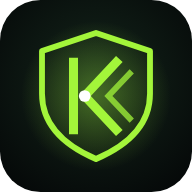
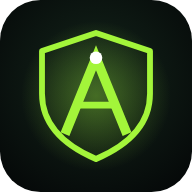
Infinite ammo drains the strip, working Feel-one-shot, rebrand to ARTIN Studios
- Infinite ammo still drains the HUD ammo strip shot by shot and refills
  instantly when empty, marked ∞ INFINITE; manual reload allowed anytime
- Feel one shot: always vibrates the weapon's pattern (even with the
  vibration toggle off), plays the shot, sweeps the waveform and reports
  when the phone blocks vibration (silent / do-not-disturb)
- Vibration pulses at least 8 ms in 20 ms windows so phone motors feel them
- ARTIN Studios brand: new A-peak shield mark,
  splash, header, icons and README

Claude-Session: https://claude.ai/code/session_0144h77ArRX4KyvnJBYfRPJE

Changed region(s): [[0.3125, 0.25, 0.7188, 0.7188]]

diff --git a/js/app.js b/js/app.js
@@ -260,7 +260,7 @@ function renderAmmo(full) {
   }
   else strip.querySelector('.ammo-bar i').style.width = `${(S.ammo / w.capacity) * 100}%`;
   const c = $('#ammo-count');
-  c.textContent = settings.infinite ? '∞' : `${S.ammo} / ${w.capacity}`;
+  c.innerHTML = `${S.ammo} / ${w.capacity}${settings.infinite ? ' <b class="inf">∞ INFINITE</b>' : ''}`;
   c.classList.toggle('low', !settings.infinite && S.ammo <= Math.ceil(w.capacity * 0.2));
 }
 function renderHeat() { $('#heat').style.width = `${Math.round(S.heat * 100)}%`; }
@@ -309,7 +309,9 @@ function tick() {
   const w = S.w, gap = minGap(), now = audio.now, rapid = (w.rpm ?? 0) >= 900;
   while (S.remaining > 0 && S.nextT < now + 0.06) {
     if (!hasAmmo()) { stopFiring(); emptyClick(); return; }
-    if (!settings.infinite) S.ammo--;
+    S.ammo--;
+    // infinite ammo still drains the strip so you see every shot, then refills instantly
+    if (settings.infinite && S.ammo <= 0) S.ammo = w.capacity;
     const t = S.nextT;
     audio.shot(w, t, { rapid });
     S.queue.push({ t, rapid, last: !settings.infinite && S.ammo === 0, gap });
@@ -452,7 +454,7 @@ function frame(ts) {
 // ------------------------------------------------------------------ reload
 function reload() {
   const w = S.w;
-  if (S.reloading || settings.infinite || S.ammo === w.capacity) return;
+  if (S.reloading || S.ammo === w.capacity) return;
   stopFiring();
   const tok = S.token;
   const dur = w.ammo === 'shell' ? Math.min(3.2, 0.6 + (w.capacity - S.ammo) * 0.4)
@@ -762,7 +764,7 @@ function hapticSvg(w) {
   pat.forEach((d, i) => { const wd = (d / total) * 300; if (i % 2 === 0) out += `<rect x="${x}" y="6" width="${Math.max(1.5, wd)}" height="26" fill="#a3f53a"/>`; x += wd; });
   let env = '';
   if (S.bank) { const e = S.bank.envelope, n = Math.min(e.length, Math.ceil(total / S.bank.frameMs)); env = `<polyline fill="none" stroke="#45d4ff" stroke-width="1.2" points="${Array.from({ length: n }, (_, i) => `${(i / n) * 300},${32 - e[i] * 26}`).join(' ')}"/>`; }
-  return `<svg class="viz" viewBox="0 0 300 38">${out}${env}</svg>
+  return `<svg class="viz" viewBox="0 0 300 38">${out}${env}<line class="sweep" x1="0" x2="0" y1="0" y2="38" stroke="#fff" stroke-width="2"/></svg>
     <p class="viz-note">Green = vibration pulses for one shot (${total} ms). Blue = this weapon's actual sound envelope it was built from — the first pulse is the recoil kick.</p>`;
 }
 
@@ -812,7 +814,16 @@ function renderTab() {
       <h3>Muzzle flash</h3>
       <p>${{ cage: 'Flash hider: a small, quick "flower" of flame.', brake: 'Muzzle brake: gas and flame blast out sideways — expect a dust cloud.', ball: 'Shotgun: a big orange fireball.', cone: 'Recoil booster: a long forward cone of flame.', comp: 'Compensator: flame jets upward to hold the muzzle down.', pistol: 'Short pistol barrel: a small, warm flash.', star: 'No flash suppression: a full star-shaped flash.' }[fp.shape]} Lasts ~${fp.dur} ms; flashlight pattern ${fp.torch.join('/')} ms.</p>
       <div class="feel-actions"><button class="btn-ghost" id="feel-vibe"><svg><use href="#i-vibe"/></svg>Feel one shot</button><button class="btn-ghost" id="feel-hear"><svg><use href="#i-sound"/></svg>Hear one shot</button></div>`;
-    $('#feel-vibe').onclick = () => { if (!Haptics.supported) toast('Vibration isn\'t available on this device.'); Haptics.shot(w, S.bank); };
+    $('#feel-vibe').onclick = async () => {
+      // works even if the Vibration toggle is off: this is an explicit preview
+      await audio.unlock();
+      const pat = Haptics.fromEnvelope(w, S.bank), total = pat.reduce((a, b) => a + b, 0);
+      const ok = Haptics.supported && navigator.vibrate(pat);
+      audio.shot(w);
+      const sw = $('.viz .sweep');
+      if (sw) sw.animate([{ transform: 'translateX(0)' }, { transform: 'translateX(300px)' }], { duration: total, easing: 'linear' });
+      toast(ok ? `Vibrating ${w.name} pattern · ${total} ms` : Haptics.supported ? 'Your phone blocked vibration — turn off Silent / Do Not Disturb (Bedtime mode) and allow vibration for Chrome.' : 'Vibration isn\'t supported in this browser (iPhone & desktop block it). Sound played instead.', 3200);
+    };
     $('#feel-hear').onclick = async () => { await audio.unlock(); audio.shot(w); };
     if (!S.bank) audio.prepare(w).then((bk) => { S.bank = bk; if (tab === 'feel' && S.w === w) renderTab(); });
   }
@@ -888,7 +899,7 @@ function route() {
     if (settings.torch) { settings.torch = false; Torch.disable(); syncToggles(); }
     audio.stopAmbient(); weather.stop();
     $('#view-sim').hidden = true; $('#view-armory').hidden = false;
-    document.title = 'Calibre — Gun Simulator & Field Manual · Korvex Studios';
+    document.title = 'Calibre — Gun Simulator & Field Manual · ARTIN Studios';
     keepAwake(false);
   }
   checkRotate();
@@ -910,7 +921,7 @@ function gate() {
 }
 
 // ------------------------------------------------------------------ boot
-// Splash: the Korvex mark draws in over ~0.5 s, names rise, then it fades.
+// Splash: the ARTIN mark draws in over ~0.5 s, names rise, then it fades.
 const SPLASH_MS = 1150;
 setTimeout(() => { const sp = $('#splash'); sp.classList.add('done'); setTimeout(() => sp.remove(), 400); }, SPLASH_MS);
 buildFilters(); renderGrid(); renderHero(); syncToggles(); route(); gate();

diff --git a/index.html b/index.html
@@ -3,8 +3,8 @@
 <head>
   <meta charset="utf-8" />
   <meta name="viewport" content="width=device-width, initial-scale=1, viewport-fit=cover" />
-  <title>Calibre — Gun Simulator &amp; Field Manual · Korvex Studios</title>
-  <meta name="description" content="Calibre by Korvex Studios — Realistic gun sound simulator with per-weapon vibration and flashlight effects, plus a field manual of famous firearms — including Indian service weapons." />
+  <title>Calibre — Gun Simulator &amp; Field Manual · ARTIN Studios</title>
+  <meta name="description" content="Calibre by ARTIN Studios — Realistic gun sound simulator with per-weapon vibration and flashlight effects, plus a field manual of famous firearms — including Indian service weapons." />
   <meta name="theme-color" content="#06090b" />
   <link rel="manifest" href="manifest.webmanifest" />
   <link rel="icon" href="icons/icon.svg" type="image/svg+xml" />
@@ -38,11 +38,11 @@
       <symbol id="i-play" viewBox="0 0 24 24"><path d="M7 4l13 8-13 8z" fill="currentColor"/></symbol>
       <symbol id="i-rotate" viewBox="0 0 24 24"><rect x="3" y="8" width="18" height="11" rx="1.5" fill="none" stroke="currentColor" stroke-width="2"/><path d="M8 4h6a4 4 0 014 4" fill="none" stroke="currentColor" stroke-width="2"/><path d="M16 6l2 2 2-2" fill="none" stroke="currentColor" stroke-width="2"/></symbol>
       <symbol id="i-mark" viewBox="0 0 64 64"><path class="v-hex" pathLength="1" d="M32 4 L56 12 V31 C56 45 46 54 32 60 C18 54 8 45 8 31 V12 Z" fill="none" stroke="currentColor" stroke-width="2.6" stroke-linejoin="round"/>
-        <g class="v-bolt" fill="none" stroke="currentColor" stroke-width="4" stroke-linecap="square" stroke-linejoin="miter">
-          <path pathLength="1" d="M22 17 V47"/><path pathLength="1" d="M41 17 L27 32 L41 47"/>
+        <g class="v-bolt" fill="none" stroke="currentColor" stroke-width="4.2" stroke-linecap="square" stroke-linejoin="miter">
+          <path pathLength="1" d="M19 47 L32 15 L45 47"/>
         </g>
-        <path class="v-ticks" pathLength="1" d="M47 22 L37.5 32 L47 42" fill="none" stroke="currentColor" stroke-width="2.6" stroke-linecap="square" opacity=".75"/>
-        <circle class="v-core" cx="27" cy="32" r="2.6" fill="#fff"/></symbol>
+        <path class="v-ticks" pathLength="1" d="M24 36 H40" fill="none" stroke="currentColor" stroke-width="3" stroke-linecap="square"/>
+        <circle class="v-core" cx="32" cy="15" r="2.8" fill="#fff"/></symbol>
       <symbol id="i-bullet" viewBox="0 0 10 40"><path d="M5 0 Q10 8 9.4 14 L9.4 16 L0.6 16 L0.6 14 Q0 8 5 0Z" fill="#c26d3a"/><rect x="0.6" y="16" width="8.8" height="22" fill="#d6a84a"/><rect x="0" y="37" width="10" height="3" fill="#a07a2a"/></symbol>
       <symbol id="i-logo" viewBox="0 0 32 32"><path d="M16 2l12 7v14l-12 7-12-7V9z" fill="none" stroke="currentColor" stroke-width="2"/><circle cx="16" cy="16" r="6" fill="none" stroke="currentColor" stroke-width="2"/><path d="M16 6v5M16 21v5M6 16h5M21 16h5" stroke="currentColor" stroke-width="2"/><circle cx="16" cy="16" r="1.8" fill="currentColor"/></symbol>
     </defs>
@@ -52,12 +52,12 @@
   <div class="splash" id="splash" aria-hidden="true">
     <div class="splash-in">
       <svg class="splash-mark" viewBox="0 0 64 64"><path class="v-hex" pathLength="1" d="M32 4 L56 12 V31 C56 45 46 54 32 60 C18 54 8 45 8 31 V12 Z" fill="none" stroke="currentColor" stroke-width="2.6" stroke-linejoin="round"/>
-        <g class="v-bolt" fill="none" stroke="currentColor" stroke-width="4" stroke-linecap="square" stroke-linejoin="miter">
-          <path pathLength="1" d="M22 17 V47"/><path pathLength="1" d="M41 17 L27 32 L41 47"/>
+        <g class="v-bolt" fill="none" stroke="currentColor" stroke-width="4.2" stroke-linecap="square" stroke-linejoin="miter">
+          <path pathLength="1" d="M19 47 L32 15 L45 47"/>
         </g>
-        <path class="v-ticks" pathLength="1" d="M47 22 L37.5 32 L47 42" fill="none" stroke="currentColor" stroke-width="2.6" stroke-linecap="square" opacity=".75"/>
-        <circle class="v-core" cx="27" cy="32" r="2.6" fill="#fff"/></svg>
-      <div class="splash-studio">KORVEX <span>STUDIOS</span></div>
+        <path class="v-ticks" pathLength="1" d="M24 36 H40" fill="none" stroke="currentColor" stroke-width="3" stroke-linecap="square"/>
+        <circle class="v-core" cx="32" cy="15" r="2.8" fill="#fff"/></svg>
+      <div class="splash-studio">ARTIN <span>STUDIOS</span></div>
       <div class="splash-game wordmark">CAL<svg class="bi"><use href="#i-bullet"/></svg>BRE</div>
     </div>
   </div>
@@ -67,7 +67,7 @@
     <header class="arm-head">
       <div class="brand">
         <svg class="brand-mark"><use href="#i-mark"/></svg>
-        <div><h1 class="wordmark">CAL<svg class="bi"><use href="#i-bullet"/></svg>BRE</h1><p>Gun simulator · Field manual · <b>by Korvex Studios</b></p></div>
+        <div><h1 class="wordmark">CAL<svg class="bi"><use href="#i-bullet"/></svg>BRE</h1><p>Gun simulator · Field manual · <b>by ARTIN Studios</b></p></div>
       </div>
       <button class="icon-btn" data-action="settings" aria-label="Settings"><svg><use href="#i-gear"/></svg></button>
     </header>

diff --git a/css/app.css b/css/app.css
@@ -481,7 +481,7 @@ kbd { font-family: var(--f-mono); font-size: 11px; padding: 1px 6px; box-shadow:
 @media (max-height: 520px) { .autold { height: 40px; padding: 0 8px; font-size: 9.5px; } }
 @media (max-width: 720px) { .autold span { display: none; } .autold { padding: 0 12px; } }
 
-/* splash: Korvex mark draws in (~0.5 s), studio + game names rise, then fades */
+/* splash: ARTIN mark draws in (~0.5 s), studio + game names rise, then fades */
 .splash { position: fixed; inset: 0; z-index: 100; display: grid; place-items: center; background: radial-gradient(ellipse at center, #0d1a12, #030506 70%); transition: opacity 0.35s, visibility 0.35s; }
 .splash.done { opacity: 0; visibility: hidden; pointer-events: none; }
 .splash-in { display: grid; justify-items: center; gap: 10px; }
@@ -489,7 +489,7 @@ kbd { font-family: var(--f-mono); font-size: 11px; padding: 1px 6px; box-shadow:
 .splash-mark [pathLength] { stroke-dasharray: 1; stroke-dashoffset: 1; animation: vdraw 0.5s cubic-bezier(.6, 0, .3, 1) forwards; }
 .splash-mark .v-bolt [pathLength] { animation-delay: 0.08s; }
 .splash-mark .v-ticks { animation-delay: 0.25s !important; }
-.splash-mark .v-core { transform-origin: 27px 32px; transform: scale(0); animation: vcore 0.35s 0.35s cubic-bezier(.3, 1.6, .5, 1) forwards; }
+.splash-mark .v-core { transform-origin: 32px 15px; transform: scale(0); animation: vcore 0.35s 0.35s cubic-bezier(.3, 1.6, .5, 1) forwards; }
 @keyframes vdraw { to { stroke-dashoffset: 0; } }
 @keyframes vcore { to { transform: scale(1); } }
 .splash-mark { animation: vflash 0.5s 0.45s ease-out; }
@@ -500,3 +500,5 @@ kbd { font-family: var(--f-mono); font-size: 11px; padding: 1px 6px; box-shadow:
 .splash-game { font-size: 46px; color: #fff; animation-delay: 0.45s; text-shadow: 0 0 24px rgba(163, 245, 58, 0.25); }
 @keyframes rise { to { opacity: 1; transform: none; } }
 @media (prefers-reduced-motion: reduce) { .splash * { animation-duration: 0.01s !important; animation-delay: 0s !important; } }
+
+.ammo-meta .inf { color: var(--cyan); font-weight: 400; margin-left: 4px; }

diff --git a/js/fx.js b/js/fx.js
@@ -20,14 +20,14 @@ export const Haptics = {
     const segs = [[true, kick]];
     if (bank) {
       const { envelope: e, frameMs } = bank;
-      const win = 16;
+      const win = 20;
       let quiet = 0;
       for (let t = kick; t < 650; t += win) {
         let lvl = 0;
         for (let i = Math.floor(t / frameMs); i < Math.floor((t + win) / frameMs) && i < e.length; i++) lvl = Math.max(lvl, e[i]);
         if (lvl < 0.025) { quiet += win; if (quiet > 90) break; segs.push([false, win]); continue; }
         quiet = 0;
-        const on = Math.min(win, Math.max(4, Math.round(win * Math.min(1, Math.pow(lvl * 3, 0.7)) * Math.min(1.4, k))));
+        const on = Math.min(win, Math.max(8, Math.round(win * Math.min(1, Math.pow(lvl * 3, 0.7)) * Math.min(1.4, k))));
         segs.push([true, on]); if (on < win) segs.push([false, win - on]);
       }
     } else segs.push([false, 20], [true, Math.round(kick * 0.4)]);

diff --git a/sw.js b/sw.js
@@ -1,6 +1,6 @@
 // Offline cache: app shell is cached on install, everything else is
 // served stale-while-revalidate so updates land on the next visit.
-const CACHE = 'calibre-v4';
+const CACHE = 'calibre-v5';
 const SHELL = [
   './', 'index.html', 'css/app.css',
   'js/app.js', 'js/data.js', 'js/render.js', 'js/audio.js', 'js/fx.js', 'js/scenes.js', 'js/flags.js', 'js/data-world.js',

diff --git a/README.md b/README.md
@@ -1,6 +1,6 @@
 # CALIBRE — Gun Simulator & Field Manual
 
-*A Korvex Studios title.* **Korvex Studios** is the umbrella studio brand for this and future games. Its mark is a shield holding a chevron "K". It appears in the start-up animation and the app icon.
+*An ARTIN Studios title.* **ARTIN Studios** (A-jay · R-eyansh · TIN-tin) is the umbrella studio brand for this and future games. Its mark is a shield holding a bold "A" peak with a glowing apex. It appears in the start-up animation and the app icon.
 
 A web-based gun sound simulator inspired by *Gun Sounds: Gun Simulator*, with stronger UI/UX and an
 educational layer. Fire 24 historic and modern weapons from WWI to today. Every shot is
@@ -23,8 +23,9 @@ No build step and no dependencies: plain HTML/CSS/ES modules, ready for Netlify.
 | **Flash** | Per-weapon muzzle flash shape (birdcage flower, brake side-blast, shotgun fireball, MG cone, compensator jets), colour, size and duration; matching flashlight (torch) pattern. |
 | **Environments** | Firing range, desert, Himalayan snow, jungle, urban, night, indoor — each changes backdrop, echo, ground surface, weather particles, ambient sound and shows the gun's reliability there. |
 | **Fire modes** | Real modes plus a trigger-controlled burst on every automatic weapon (marked *) and a hold-to-repeat **Rapid** mode on semi-auto, bolt and pump guns. |
+| **Infinite ammo** | The strip still drains with every shot, then refills instantly when empty, marked ∞ INFINITE. |
 | **Reload** | MANUAL / AUTO switch on the HUD (manual by default). Each fired round pops out of the ammo strip, and the strip refills round by round on reload. Animated: the empty magazine drops and tumbles to the ground with a landing sound, a fresh one slides in and the bolt or slide is racked. Clips are pressed in from the top, shells go into the tube one by one and belts are swapped. Pistol slides lock back when empty. |
-| **Splash** | The Korvex mark draws in (~0.5 s), then KORVEX STUDIOS and the CALIBRE wordmark appear. `SPLASH_MS` in `js/app.js` sets the total time. |
+| **Splash** | The ARTIN mark draws in (~0.5 s), then ARTIN STUDIOS and the CALIBRE wordmark appear. `SPLASH_MS` in `js/app.js` sets the total time. |
 | **Heat** | Barrel heat builds with sustained fire and cools over time; a hot barrel smokes. |
 | **Landscape-first** | Designed for a sideways phone; prompts to rotate in portrait (with a portrait fallback). Fullscreen + landscape lock. |
 | **PWA** | Installable, offline, wake lock. |
